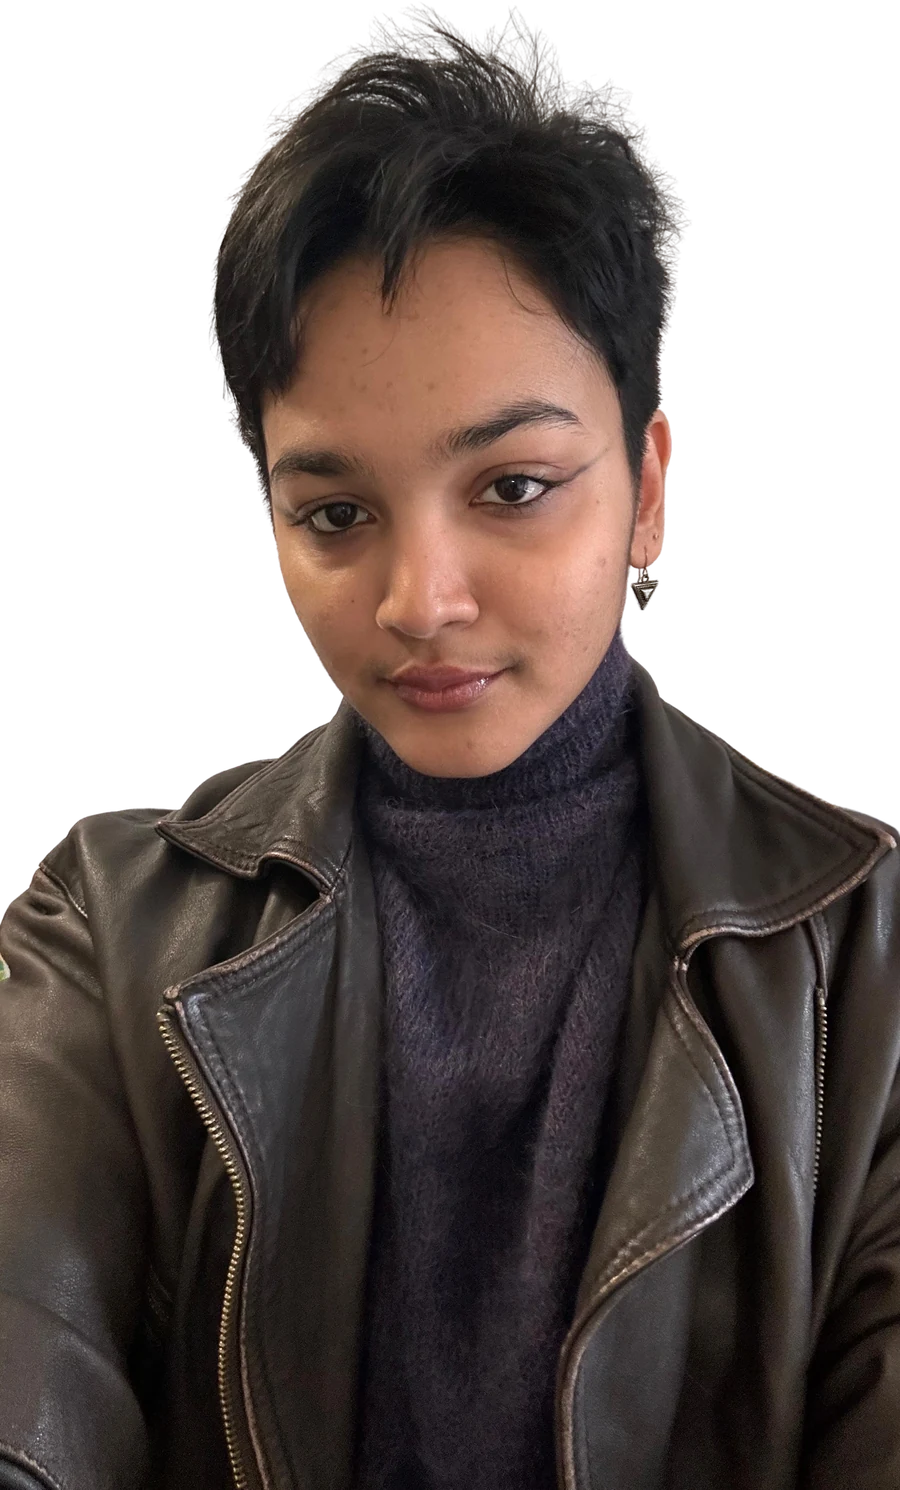
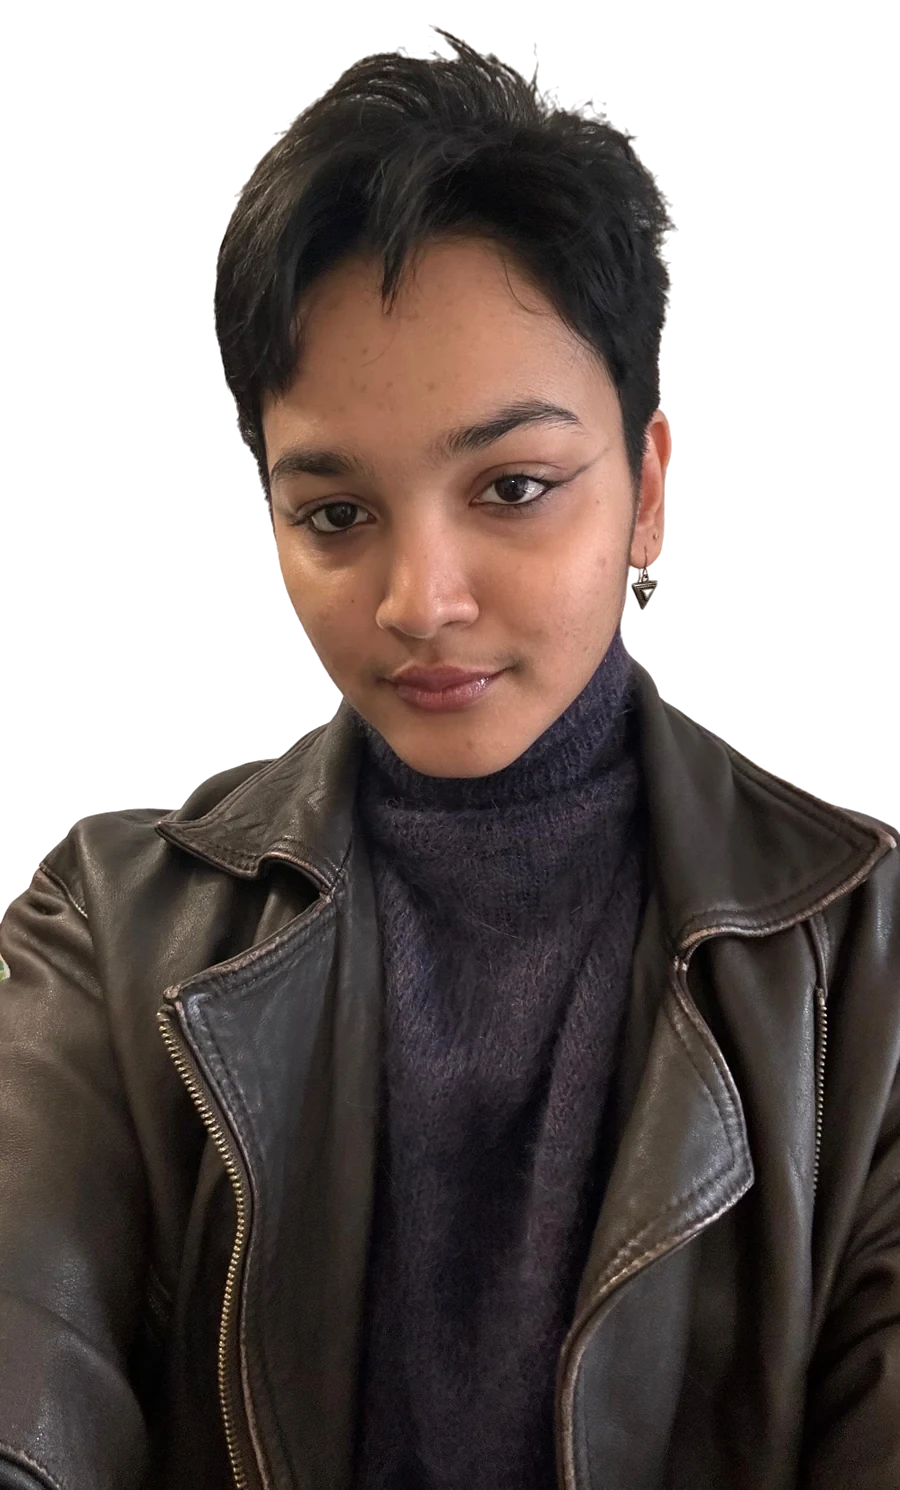
Expand video theming site-wide, rebuild hero photo as a framed card
- Site palette now sampled directly from hero-loop.mp4 (deep navy ink,
  indigo blue, moon gold) instead of an invented blue/green/yellow set,
  so the video is the actual source of the site's colouring
- Practice section gets the live looping video as its background;
  Contact reuses a static poster frame of it (avoids running three
  concurrent video decodes for one page)
- Hero portrait rebuilt as a tilting photo-frame card: the cutout now
  sits on an opaque paper backing instead of directly on the video, the
  caption lives inside the frame under the image instead of floating
  separately, and the alpha edge is feathered to remove jagged cutout
  pixels. Frame tilts toward the cursor via pointermove.

diff --git a/app/globals.css b/app/globals.css
@@ -1,18 +1,17 @@
 :root {
-  --paper: #f1f0eb;
-  --paper-deep: #e1dfd5;
-  --ink: #14161c;
-  --ink-soft: rgba(20, 22, 28, .68);
-  --ink-faint: rgba(20, 22, 28, .46);
-  --line: rgba(20, 22, 28, .14);
-  --line-on-ink: rgba(241, 240, 235, .20);
-  /* blue: primary accent (links, CTAs, emphasis). green: metadata/labels + secondary CTA.
-     yellow: dark-surface accent + badge fills only (fails contrast as text on paper). */
-  --blue: #2244b8;
-  --blue-light: #6690ff;
-  --green: #0f6b39;
-  --green-light: #3fbe70;
-  --yellow: #f2c14e;
+  /* Every color below is sampled directly from hero-loop.mp4 (the Starry-Night
+     video), then adjusted only in lightness to clear WCAG AA. ink/blue/gold are
+     the video's three real tones: deep navy sky, indigo brushstroke, moon gold. */
+  --paper: #f1f0ea;
+  --paper-deep: #e3e1d6;
+  --ink: #171b28;
+  --ink-soft: rgba(23, 27, 40, .68);
+  --ink-faint: rgba(23, 27, 40, .46);
+  --line: rgba(23, 27, 40, .14);
+  --line-on-ink: rgba(241, 240, 234, .20);
+  --blue: #1f42a3;
+  --blue-light: #7096ff;
+  --gold: #e4c144;
   --accent: var(--blue);
   --accent-ink: var(--paper);
   --serif: var(--font-serif), Georgia, serif;
@@ -30,7 +29,7 @@ p { text-wrap: pretty; }
 .skip-link { position: fixed; z-index: 100; left: 1rem; top: -4rem; background: var(--ink); color: var(--paper); padding: .7rem 1rem; transition: top .2s; }
 .skip-link:focus { top: 1rem; }
 .shell { width: min(1240px, calc(100% - 48px)); margin-inline: auto; }
-.label { font-family: var(--mono); font-size: .72rem; text-transform: uppercase; letter-spacing: .1em; color: var(--green); }
+.label { font-family: var(--mono); font-size: .72rem; text-transform: uppercase; letter-spacing: .1em; color: var(--blue); }
 
 /* Header */
 .site-header { width: min(1320px, calc(100% - 48px)); height: 76px; margin: auto; display: flex; align-items: center; justify-content: space-between; border-bottom: 1px solid var(--line); }
@@ -50,13 +49,12 @@ p { text-wrap: pretty; }
 .hero-bg { position: absolute; inset: 0; width: 100%; height: 100%; object-fit: cover; }
 .hero-scrim { position: absolute; inset: 0; background: linear-gradient(100deg, rgba(10,10,20,.78) 0%, rgba(10,10,20,.58) 48%, rgba(10,10,20,.3) 100%); }
 .hero { position: relative; padding: 72px 0 92px; display: grid; grid-template-columns: 1.08fr .78fr; gap: clamp(2.5rem, 6vw, 6rem); align-items: center; }
-.hero-eyebrow { margin: 0 0 1rem; font-family: var(--mono); font-size: .74rem; text-transform: uppercase; letter-spacing: .08em; color: var(--green-light); }
+.hero-eyebrow { margin: 0 0 1rem; font-family: var(--mono); font-size: .74rem; text-transform: uppercase; letter-spacing: .08em; color: var(--blue-light); }
 .hero h1 { max-width: 700px; margin: 0; font-family: var(--serif); font-size: clamp(2.7rem, 4.6vw, 4.1rem); font-weight: 500; line-height: 1.08; letter-spacing: -.01em; color: var(--paper); }
-.hero h1 em { font-style: italic; color: var(--yellow); font-weight: 500; }
+.hero h1 em { font-style: italic; color: var(--gold); font-weight: 500; }
 .hero-intro { max-width: 480px; margin: 1.6rem 0 0; font-size: 1.07rem; line-height: 1.6; color: rgba(241,240,235,.82); }
 .hero .text-link { color: var(--blue-light); border-color: rgba(241,240,235,.4); }
 .hero .text-link:hover { border-color: var(--blue-light); }
-.hero-caption { color: rgba(241,240,235,.72) !important; }
 .hero-actions { display: flex; flex-wrap: wrap; align-items: center; gap: 1.8rem; margin-top: 2.1rem; }
 .button { display: inline-flex; gap: 1.6rem; align-items: center; justify-content: space-between; padding: .85rem 1.3rem; border-radius: 999px; text-decoration: none; font-weight: 500; font-size: .88rem; white-space: nowrap; transition: transform .25s cubic-bezier(.16,1,.3,1), background .2s ease, box-shadow .3s ease; }
 .button span { transition: transform .25s cubic-bezier(.16,1,.3,1); display: inline-block; }
@@ -65,18 +63,19 @@ p { text-wrap: pretty; }
 .button:active { transform: scale(.98); }
 .button-dark { color: var(--paper); background: var(--ink); }
 .button-dark:hover { background: var(--accent); box-shadow: 0 0 22px 2px rgba(34,68,184,.45); }
-.button-accent { color: var(--paper); background: var(--green); }
-.button-accent:hover { background: var(--green-light); color: var(--ink); box-shadow: 0 0 22px 2px rgba(63,190,112,.5); }
+.button-accent { color: var(--ink); background: var(--gold); }
+.button-accent:hover { background: var(--blue); color: var(--paper); box-shadow: 0 0 22px 2px rgba(31,66,163,.5); }
 .text-link { font-size: .9rem; text-decoration: none; border-bottom: 1px solid var(--line); padding-bottom: .1rem; }
 .text-link:hover { border-color: var(--ink); }
 
-.hero-figure { position: relative; margin: 0; }
+.hero-figure { position: relative; margin: 0; perspective: 1200px; }
+.photo-frame { position: relative; transform-style: preserve-3d; transform: rotate(-1.4deg) rotateX(var(--tilt-x, 0deg)) rotateY(var(--tilt-y, 0deg)); transition: transform .25s cubic-bezier(.16,1,.3,1); background: var(--paper); padding: 14px 14px 0; border-radius: 3px; box-shadow: 0 24px 50px -14px rgba(0,0,0,.5), 0 0 0 1px rgba(255,255,255,.05); }
 .hero-photo { overflow: hidden; background: var(--paper-deep); aspect-ratio: 4 / 5; }
 .hero-photo img { width: 100%; height: 100%; object-fit: cover; object-position: 50% 32%; filter: saturate(.92) contrast(1.02); }
-.hero-photo-cutout { position: relative; background: none; }
+.hero-photo-cutout { background: var(--paper-deep); }
 .hero-photo-cutout img { object-fit: contain; object-position: bottom center; filter: none; }
-.hero-caption { margin: .85rem 0 0; font-family: var(--mono); font-size: .74rem; letter-spacing: .02em; color: var(--ink-faint); }
-.hero-stamp { position: absolute; right: -14px; bottom: -18px; width: 108px; aspect-ratio: 1; display: grid; place-items: center; border-radius: 50%; background: var(--yellow); color: var(--ink); transform: rotate(-8deg); text-align: center; font-family: var(--mono); font-size: .64rem; text-transform: uppercase; letter-spacing: .06em; line-height: 1.3; transition: transform .4s cubic-bezier(.16,1,.3,1); }
+.frame-caption { margin: .6rem 0 0; padding: .8rem 2px .95rem; border-top: 1px solid var(--line); font-family: var(--mono); font-size: .68rem; letter-spacing: .02em; color: var(--ink-faint); text-align: center; }
+.hero-stamp { position: absolute; right: -14px; bottom: -18px; width: 108px; aspect-ratio: 1; display: grid; place-items: center; border-radius: 50%; background: var(--gold); color: var(--ink); transform: rotate(-8deg); text-align: center; font-family: var(--mono); font-size: .64rem; text-transform: uppercase; letter-spacing: .06em; line-height: 1.3; transition: transform .4s cubic-bezier(.16,1,.3,1); }
 .hero-stamp:hover { transform: rotate(4deg) scale(1.06); box-shadow: 0 0 26px 4px rgba(242,193,78,.65); }
 .hero-stamp span { font-weight: 600; }
 
@@ -92,11 +91,11 @@ p { text-wrap: pretty; }
 .case-media { display: block; overflow: hidden; background: var(--paper-deep); }
 .case-media img { width: 100%; object-fit: contain; padding: 1.6rem; background: var(--paper-deep); transition: transform .5s cubic-bezier(.16,1,.3,1); }
 .case:hover .case-media img, .case-media:focus-visible img { transform: scale(1.035); }
-.case-caption { margin: .8rem 0 0; font-family: var(--mono); font-size: .72rem; color: var(--green); text-transform: uppercase; letter-spacing: .05em; }
+.case-caption { margin: .8rem 0 0; font-family: var(--mono); font-size: .72rem; color: var(--blue); text-transform: uppercase; letter-spacing: .05em; }
 .case-copy h3 { margin: 0; font: 500 clamp(1.9rem, 2.8vw, 2.7rem)/1.08 var(--serif); letter-spacing: -.01em; }
 .case-copy p { margin: 1.1rem 0; font-size: .95rem; color: var(--ink-soft); }
 .case-tags { display: flex; flex-wrap: wrap; gap: .5rem; padding: 0; margin: 1.3rem 0 1.6rem; list-style: none; font-family: var(--mono); }
-.case-tags li { border: 1px solid rgba(15,107,57,.35); padding: .32rem .62rem; font-size: .7rem; color: var(--green); }
+.case-tags li { border: 1px solid rgba(31,66,163,.3); padding: .32rem .62rem; font-size: .7rem; color: var(--blue); }
 .case-link { display: inline-flex; gap: .5rem; text-decoration: none; font-size: .86rem; font-weight: 600; border-bottom: 1px solid var(--ink); padding-bottom: .15rem; }
 .case-link span { display: inline-block; transition: transform .25s cubic-bezier(.16,1,.3,1); }
 .case-link:hover { color: var(--blue); border-color: var(--blue); }
@@ -112,22 +111,22 @@ p { text-wrap: pretty; }
 .film-panel::before { content: ""; position: absolute; width: 150%; height: 80%; top: -22%; left: -25%; border: 1px solid var(--line-on-ink); border-radius: 50%; transform: rotate(-11deg); }
 .film-panel strong { font: 500 clamp(2.6rem, 5.5vw, 3.6rem)/.92 var(--serif); letter-spacing: -.01em; }
 .film-panel span { margin-top: .9rem; max-width: 240px; font-size: .86rem; color: rgba(234,230,220,.78); }
-.play-mark { position: absolute; right: 1.7rem; top: 1.7rem; width: 44px; aspect-ratio: 1; display: grid; place-items: center; border-radius: 50%; color: var(--ink); background: var(--yellow); font-size: .8rem; transition: box-shadow .35s ease, transform .35s ease; }
+.play-mark { position: absolute; right: 1.7rem; top: 1.7rem; width: 44px; aspect-ratio: 1; display: grid; place-items: center; border-radius: 50%; color: var(--ink); background: var(--gold); font-size: .8rem; transition: box-shadow .35s ease, transform .35s ease; }
 .case-film:hover .play-mark { transform: scale(1.12); box-shadow: 0 0 24px 4px rgba(242,193,78,.6); }
 
 /* Practice / timeline */
-.practice { padding: 100px 0; color: var(--paper); background: var(--ink); }
-.practice-grid { display: grid; grid-template-columns: .8fr 1.2fr; gap: 6vw; }
+.practice { position: relative; overflow: hidden; padding: 100px 0; color: var(--paper); background: var(--ink); }
+.practice-grid { position: relative; z-index: 1; display: grid; grid-template-columns: .8fr 1.2fr; gap: 6vw; }
 .practice-intro h2 { margin: 0 0 1.2rem; font: 500 clamp(2.3rem, 4vw, 3.4rem)/1.08 var(--serif); letter-spacing: -.01em; }
 .practice-intro p { max-width: 460px; margin: 0; color: rgba(234,230,220,.78); font-size: 1rem; }
 .practice .button { margin-top: 1.8rem; }
 .timeline { position: relative; margin: 0; padding: 0 0 0 1.9rem; list-style: none; }
 .timeline::before { content: ""; position: absolute; left: 4px; top: 10px; bottom: 10px; width: 1px; background: var(--line-on-ink); }
 .timeline li { position: relative; display: grid; grid-template-columns: 112px 1fr; gap: 1.2rem; padding: 1.3rem .9rem 1.3rem .6rem; margin: 0 -0.6rem; border-radius: 4px; outline: none; cursor: default; transition: background .25s ease, padding-left .25s cubic-bezier(.16,1,.3,1); }
-.timeline-dot { position: absolute; left: -1.59rem; top: 1.6rem; width: 9px; height: 9px; border-radius: 50%; background: var(--green-light); box-shadow: 0 0 0 3px var(--ink), 0 0 0px rgba(63,190,112,0); transition: box-shadow .3s ease, transform .3s ease; }
+.timeline-dot { position: absolute; left: -1.59rem; top: 1.6rem; width: 9px; height: 9px; border-radius: 50%; background: var(--blue-light); box-shadow: 0 0 0 3px var(--ink), 0 0 0px rgba(112,150,255,0); transition: box-shadow .3s ease, transform .3s ease; }
 .timeline li:hover, .timeline li:focus-within { background: rgba(241,240,235,.06); padding-left: .95rem; }
-.timeline li:hover .timeline-dot, .timeline li:focus-within .timeline-dot { transform: scale(1.3); box-shadow: 0 0 0 3px var(--ink), 0 0 14px 2px rgba(63,190,112,.75); }
-.timeline time { font-family: var(--mono); font-size: .76rem; color: var(--green-light); padding-top: .2rem; }
+.timeline li:hover .timeline-dot, .timeline li:focus-within .timeline-dot { transform: scale(1.3); box-shadow: 0 0 0 3px var(--ink), 0 0 14px 2px rgba(112,150,255,.8); }
+.timeline time { font-family: var(--mono); font-size: .76rem; color: var(--blue-light); padding-top: .2rem; }
 .timeline h3 { margin: 0 0 .25rem; font: 500 1.3rem/1.15 var(--serif); }
 .timeline-org { display: block; font-size: .84rem; color: rgba(234,230,220,.68); }
 .timeline-detail { margin: 0; max-height: 0; opacity: 0; overflow: hidden; font-size: .84rem; line-height: 1.5; color: rgba(234,230,220,.82); transition: max-height .4s cubic-bezier(.16,1,.3,1), opacity .3s ease .05s, margin-top .4s ease; }
@@ -139,7 +138,7 @@ p { text-wrap: pretty; }
 .index-row { position: relative; overflow: hidden; display: grid; grid-template-columns: 1fr auto; column-gap: 2rem; align-items: start; padding: 1.9rem 0; border-bottom: 1px solid var(--line); text-decoration: none; color: inherit; transition: padding-left .3s cubic-bezier(.16,1,.3,1); }
 .index-row:hover { padding-left: .6rem; }
 .index-row:hover h3, .index-row:hover h2 { color: var(--blue); }
-.index-meta { font-family: var(--mono); font-size: .72rem; text-transform: uppercase; letter-spacing: .05em; color: var(--green); }
+.index-meta { font-family: var(--mono); font-size: .72rem; text-transform: uppercase; letter-spacing: .05em; color: var(--blue); }
 .index-row h3, .index-row h2 { margin: .5rem 0 .4rem; font: 500 clamp(1.4rem, 2.6vw, 1.9rem)/1.15 var(--serif); transition: color .2s; }
 .index-row p { margin: 0; max-width: 54ch; font-size: .92rem; color: var(--ink-soft); }
 .index-arrow { position: relative; font-size: 1.1rem; padding-top: .4rem; color: var(--ink-faint); transition: transform .3s cubic-bezier(.16,1,.3,1), color .2s, filter .3s ease; }
@@ -149,7 +148,14 @@ p { text-wrap: pretty; }
 .index-thumb img { width: 100%; height: 100%; object-fit: cover; display: block; }
 
 /* Contact */
-.contact { padding: 110px 0 50px; color: var(--paper); background: var(--ink); }
+.contact { position: relative; overflow: hidden; padding: 110px 0 50px; color: var(--paper); background: var(--ink); }
+.contact .shell { position: relative; z-index: 1; }
+.video-backdrop { position: absolute; inset: 0; z-index: 0; overflow: hidden; }
+.video-backdrop video { position: absolute; inset: 0; width: 100%; height: 100%; object-fit: cover; }
+.video-backdrop::after { content: ""; position: absolute; inset: 0; background: linear-gradient(180deg, rgba(23,27,40,.55), rgba(23,27,40,.88)); }
+@media (prefers-reduced-motion: reduce) {
+  .video-backdrop video { display: none; }
+}
 .contact h2 { max-width: 760px; margin: 0; font: 500 clamp(2.6rem, 5.4vw, 4.6rem)/1.06 var(--serif); letter-spacing: -.01em; }
 .contact-email { display: inline-flex; gap: .7rem; align-items: baseline; margin: 2.6rem 0 3.6rem; padding-bottom: .4rem; border-bottom: 1px solid var(--line-on-ink); font: 500 clamp(1.3rem, 2.6vw, 2.1rem) var(--serif); text-decoration: none; }
 .contact-email:hover { color: var(--blue-light); }

diff --git a/components/Hero.js b/components/Hero.js
@@ -1,4 +1,5 @@
 import Image from "next/image";
+import PhotoFrame from "@/components/PhotoFrame";
 
 export default function Hero() {
   return (
@@ -34,16 +35,18 @@ export default function Hero() {
           </div>
         </div>
         <figure className="hero-figure reveal">
-          <div className="hero-photo hero-photo-cutout">
-            <Image
-              src="/assets/portrait-b.webp"
-              alt="Portrait of Ruchika Ahire"
-              width={900}
-              height={1490}
-              priority
-            />
-          </div>
-          <figcaption className="hero-caption">Based in London. Open to new collaborations.</figcaption>
+          <PhotoFrame>
+            <div className="hero-photo hero-photo-cutout">
+              <Image
+                src="/assets/portrait-b.webp"
+                alt="Portrait of Ruchika Ahire"
+                width={900}
+                height={1490}
+                priority
+              />
+            </div>
+            <figcaption className="frame-caption">Based in London. Open to new collaborations.</figcaption>
+          </PhotoFrame>
           <div className="hero-stamp" aria-hidden="true">
             Evidence
             <br />

diff --git a/components/PhotoFrame.js b/components/PhotoFrame.js
@@ -1,0 +1,35 @@
+"use client";
+
+import { useRef } from "react";
+
+export default function PhotoFrame({ children }) {
+  const ref = useRef(null);
+
+  function handleMove(e) {
+    const el = ref.current;
+    if (!el) return;
+    const rect = el.getBoundingClientRect();
+    const x = (e.clientX - rect.left) / rect.width - 0.5;
+    const y = (e.clientY - rect.top) / rect.height - 0.5;
+    el.style.setProperty("--tilt-x", `${(-y * 8).toFixed(2)}deg`);
+    el.style.setProperty("--tilt-y", `${(x * 8).toFixed(2)}deg`);
+  }
+
+  function handleLeave() {
+    const el = ref.current;
+    if (!el) return;
+    el.style.setProperty("--tilt-x", "0deg");
+    el.style.setProperty("--tilt-y", "0deg");
+  }
+
+  return (
+    <div
+      ref={ref}
+      className="photo-frame"
+      onPointerMove={handleMove}
+      onPointerLeave={handleLeave}
+    >
+      {children}
+    </div>
+  );
+}

diff --git a/components/VideoBackdrop.js b/components/VideoBackdrop.js
@@ -1,0 +1,20 @@
+import Image from "next/image";
+
+export default function VideoBackdrop({ opacity = 0.34, static: isStatic = false }) {
+  return (
+    <div className="video-backdrop" aria-hidden="true">
+      {isStatic ? (
+        <Image
+          src="/assets/hero-poster.jpg"
+          alt=""
+          fill
+          style={{ objectFit: "cover", opacity }}
+        />
+      ) : (
+        <video autoPlay muted loop playsInline poster="/assets/hero-poster.jpg" style={{ opacity }}>
+          <source src="/assets/hero-loop.mp4" type="video/mp4" />
+        </video>
+      )}
+    </div>
+  );
+}

diff --git a/components/PracticeSection.js b/components/PracticeSection.js
@@ -1,4 +1,5 @@
 import Link from "next/link";
+import VideoBackdrop from "@/components/VideoBackdrop";
 
 const timeline = [
   {
@@ -36,6 +37,7 @@ const timeline = [
 export default function PracticeSection() {
   return (
     <section className="practice" id="about">
+      <VideoBackdrop opacity={0.22} />
       <div className="shell practice-grid">
         <div className="practice-intro reveal">
           <h2>Words, evidence and a camera, used with care.</h2>

diff --git a/components/ContactSection.js b/components/ContactSection.js
@@ -1,6 +1,9 @@
+import VideoBackdrop from "@/components/VideoBackdrop";
+
 export default function ContactSection() {
   return (
     <section className="contact" id="contact">
+      <VideoBackdrop opacity={0.26} static />
       <div className="shell reveal">
         <h2>Let&rsquo;s build something that matters.</h2>
         <a className="contact-email" href="mailto:ruchikaahire@gmail.com">
